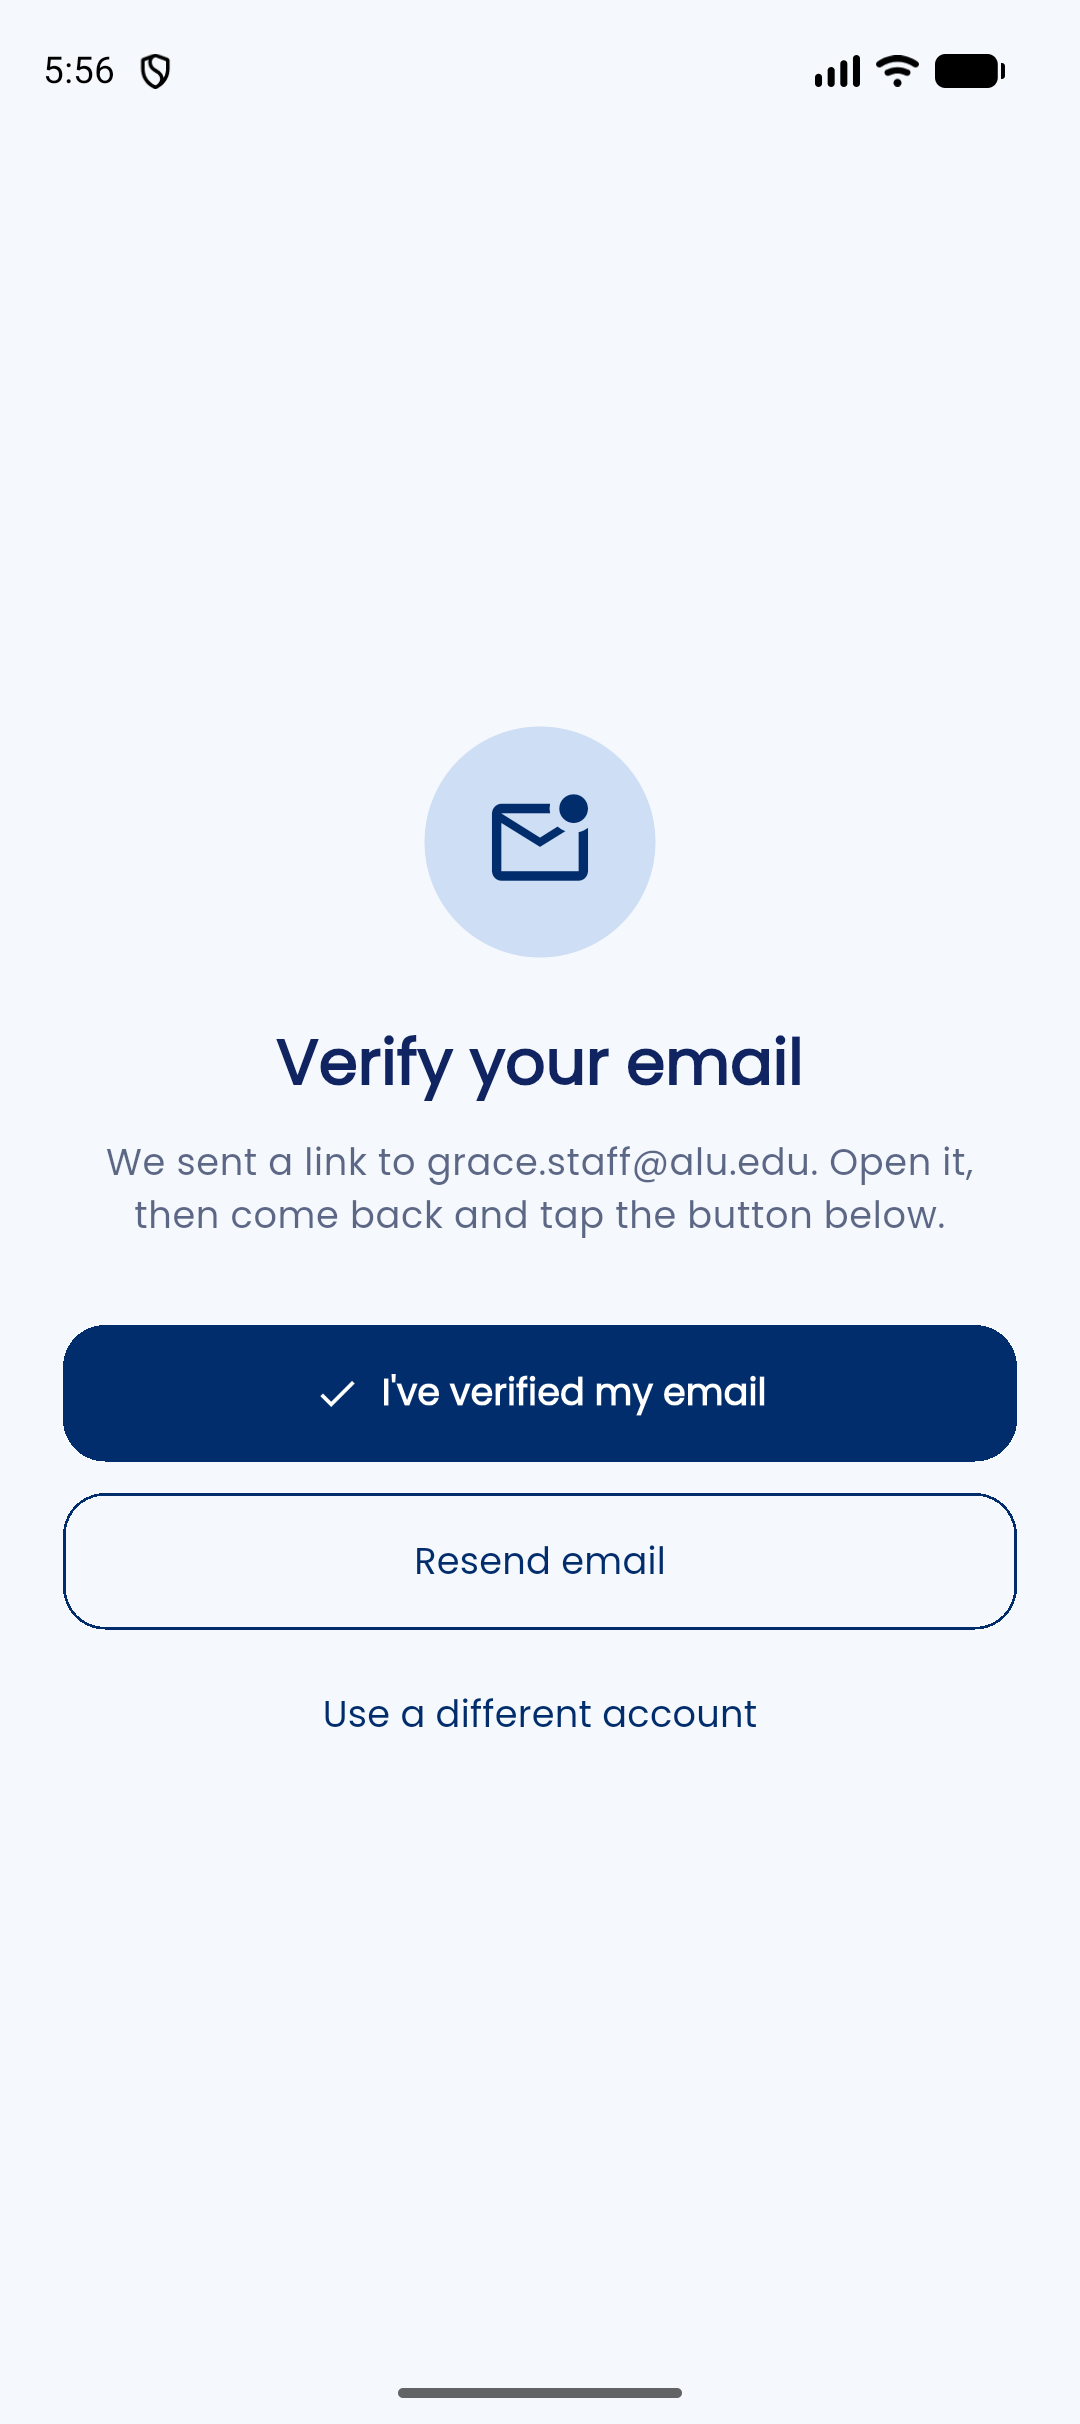
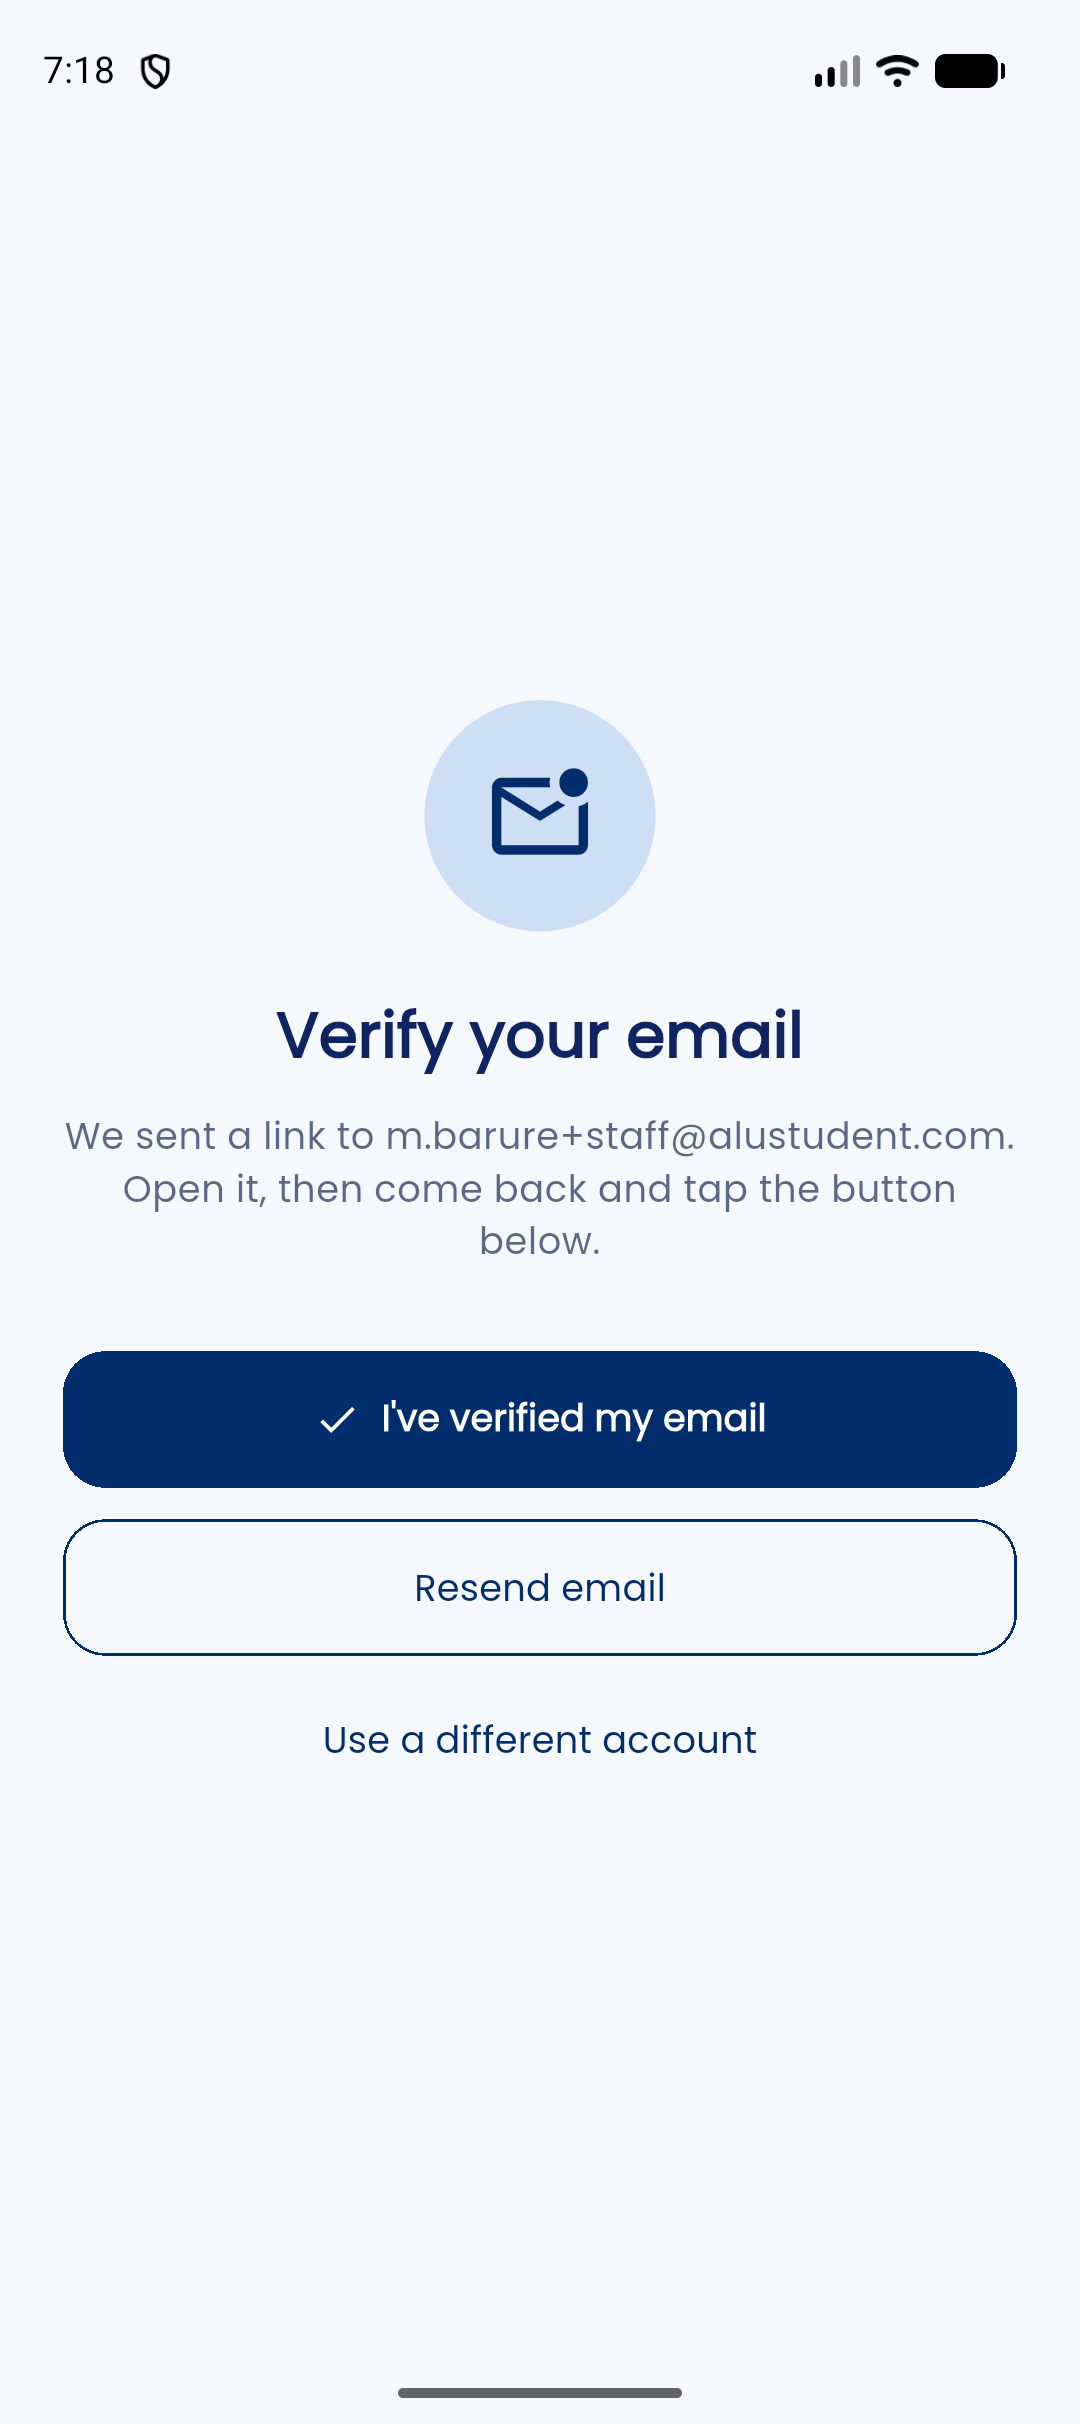
docs(screenshots): Retake verify, report form and profile screens and add student home and my reports

Changed region(s): [[0.0611, 0.2785, 0.9472, 0.7426], [0.5806, 0.3094, 0.6111, 0.3713]]

diff --git a/docs/screenshots/README.md b/docs/screenshots/README.md
@@ -7,9 +7,10 @@ Taken on an Android emulator (Pixel, 1080 x 2424).
 | `01_login_alu_email_only.png` | Login rejecting a non-ALU email |
 | `02_signup.png` | Sign up |
 | `03_verify_email.png` | Verify Email screen (shown until the link is clicked) |
-| `04_student_home_empty.png` | Student Home with summary cards and empty state |
+| `04_student_home.png` | Student Home with summary cards and recent reports |
+| `04b_my_reports.png` | My Reports with profile stats and status filter |
 | `05_report_validation.png` | Report form showing validation errors |
-| `06_report_with_photo.png` | Report form with category and compressed photo |
+| `06_report_with_photo.png` | Report form filled in, with category and compressed photo |
 | `07_report_submitted.png` | Success snackbar after submitting |
 | `08_browse_reports.png` | Browse with search and filters |
 | `09_details_photo.png` | Incident details with full photo |
